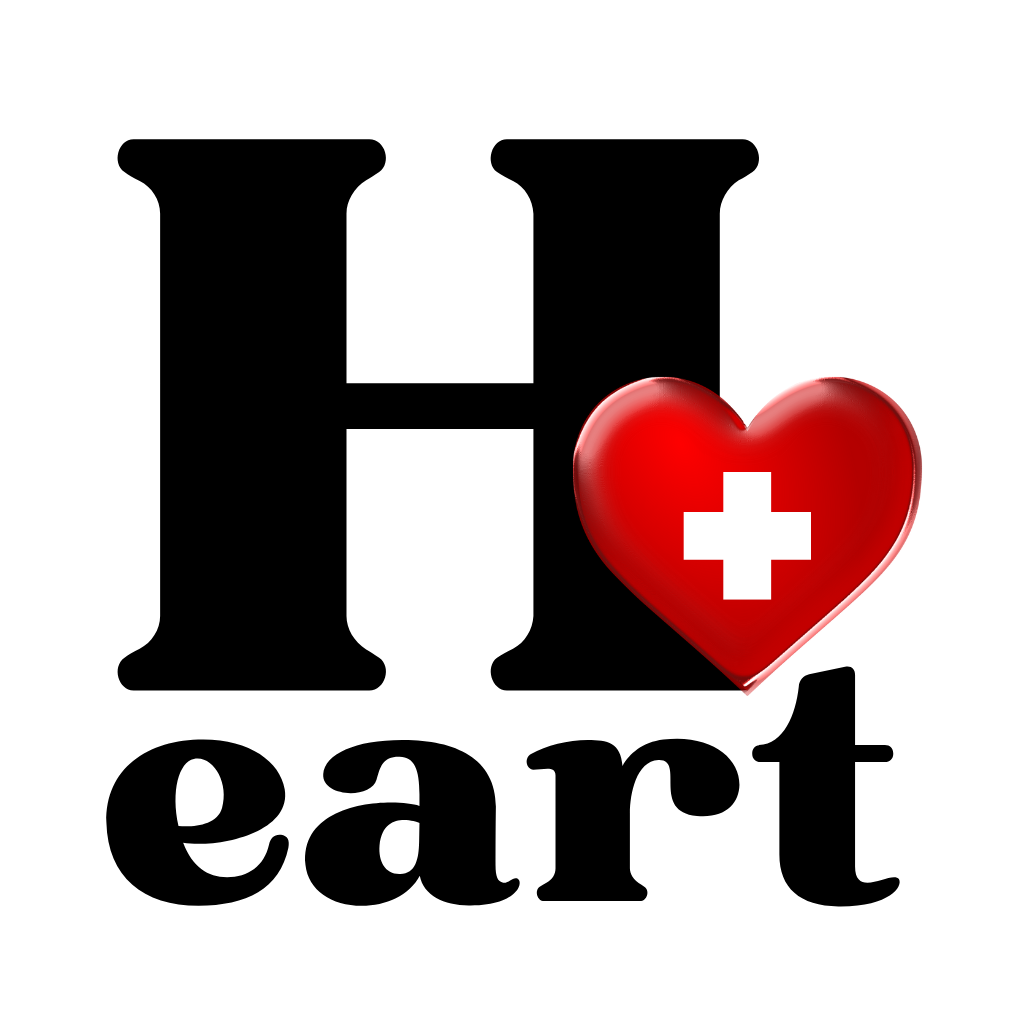
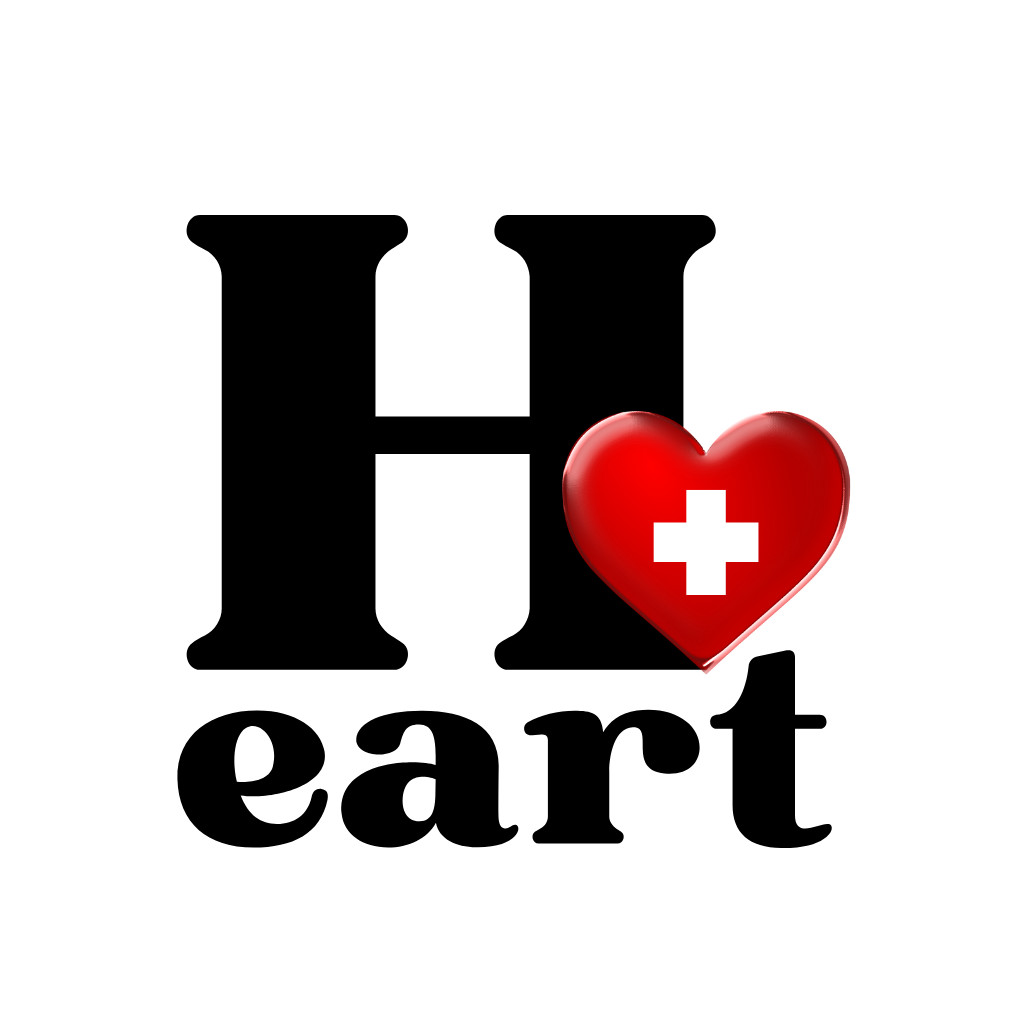
adaptiveIconの変更に伴い、designを全て66%の余裕枠内に設定した NavigationBarを表示させるようにした hospitalDataページのdesign修正

Changed region(s): [[0.0938, 0.125, 0.9062, 0.9062]]

diff --git a/src/app/t-data/index.tsx b/src/app/t-data/index.tsx
@@ -1,27 +1,29 @@
 import { useState } from 'react'
 import { ActivityIndicator, StyleSheet, Text, TouchableOpacity } from 'react-native'
 import { RewardedAd, RewardedAdEventType, TestIds } from 'react-native-google-mobile-ads'
-import * as Device from 'expo-device'
-import BackgroundTemplate from '@/src/components/template/BackgroundTemplete'
 import { router } from 'expo-router'
-import Constants from "expo-constants"
+// import Constants from "expo-constants"
+// import * as Device from 'expo-device'
+import BackgroundTemplate from '@/src/components/template/BackgroundTemplete'
 
 export default function AdMobForData() {
   const [loading, setLoading] = useState(false)
   const [loaded, setLoaded] = useState(false)
   const [rewarded, setRewarded] = useState<RewardedAd | null>(null)
 
-  const androidAdmobRewarded = Constants.expoConfig?.extra?.ANDROID_UNIT_ID
-  const iosAdmobRewarded = Constants.expoConfig?.extra?.IOS_UNIT_ID
-  const productionID = Device.osName === 'Android' ? androidAdmobRewarded : iosAdmobRewarded
-  const adUnitId = __DEV__ ? TestIds.REWARDED : productionID
+  // 開発中は使えない
+  // const androidAdmobRewarded = Constants.expoConfig?.extra?.ANDROID_UNIT_ID
+  // const iosAdmobRewarded = Constants.expoConfig?.extra?.IOS_UNIT_ID
+  // const productionID = Device.osName === 'Android' ? androidAdmobRewarded : iosAdmobRewarded
+  // const adUnitId = __DEV__ ? TestIds.REWARDED : productionID
+  const adUnitId = TestIds.REWARDED
 
   function loadFun () {
     setLoading(true)
 
     // インスタンス作成
     const newRewarded = RewardedAd.createForAdRequest(adUnitId
-      // //開発中は使えない
+      // // 開発中は使えない
       // , {
       // keywords: ['fashion', 'clothing', 'gaming', 'education', 'fitness', 'food', 'market', 'medication'],
       // requestNonPersonalizedAdsOnly: true
@@ -58,6 +60,13 @@ export default function AdMobForData() {
 
   return (
     <BackgroundTemplate>
+
+      <Text style={styles.headerTitle}>数字で見る病院データ</Text>
+
+      <Text style={styles.dialog}>
+        HeartHospitalでは病院指標を基に独自フィルタリングし、令和3～5年度の各病院の手術情報を見やすく表やグラフにしました。病院指標とは、病院の診療実績や医療の質、安全性、効率性を測るためのデータを集計・分析し、客観的に評価するための基準や指標のことで、各病院が毎年公開されますので誰でも閲覧可能です。簡単に説明すると、「各病院でどんな手術を何件やっているか」がわかります。広告視聴後にご覧ください。
+      </Text>
+
       <TouchableOpacity 
         disabled = {loading}
         onPress={() => {
@@ -65,23 +74,33 @@ export default function AdMobForData() {
           if(loaded) rewarded?.show()
         }}
       >
-        <Text style={styles.button}>
+        <Text style={[styles.button, {backgroundColor: loaded ? 'orange' : 'green'}]}>
           {loading?
             <ActivityIndicator size={"small"} color={'white'}/>
-            : loaded? '広告視聴して病院データを閲覧する': '広告を読み込む'}
+            : loaded? 
+              '広告視聴して病院データを閲覧する'
+              : '広告を読み込む'}
         </Text>
       </TouchableOpacity>
-
-      <Text style={styles.subText}>
-        ※ ここでいう病院データとは、各病院が毎年公開する病院指標（手術をした患者人数等）から必要なデータのみを抽出し、独自フィルタリングしたデータを見やすくグラフ化したものです。
-      </Text>
 
     </BackgroundTemplate>
   )
 }
 const styles = StyleSheet.create({
+  headerTitle: {
+    marginTop: 36,
+    marginHorizontal: 'auto',
+    fontSize: 24
+  },
+  dialog: {
+    margin: 32,
+    borderWidth: 1,
+    borderColor: 'gray',
+    borderRadius: 16,
+    padding: 16,
+    color: 'gray'
+  },
   button: {
-    backgroundColor: 'orange',
     color: 'white',
     paddingTop: 16,
     paddingBottom: 12,
@@ -89,12 +108,8 @@ const styles = StyleSheet.create({
     borderRadius: 8,
     fontSize: 16,
     width: 300,
-    textAlign: 'center'
-  },
-  subText: {
-    color: '#666666',
-    padding: 16,
-    marginHorizontal: 16
+    textAlign: 'center',
+    marginBottom: 36
   }
 })
 

diff --git a/app.config.js b/app.config.js
@@ -3,16 +3,16 @@ export default{
     name: "hearthospital-mobile",
     slug: "hearthospital-mobile",
     scheme: "jp.hearthospital",
-    version: "1.0.0",
+    version: "1.0.1",
     orientation: "portrait",
     icon: "./assets/icon(1024x1024).png",
-    userInterfaceStyle: "light",
-    newArchEnabled: true,
     splash: {
       "image": "./assets/splash-icon(414x896).png",
       "resizeMode": "contain",
       "backgroundColor": "#ffffff"
     },
+    userInterfaceStyle: "light",
+    newArchEnabled: true,
     ios: {
       bundleIdentifier: "jp.hearthospital",
       buildNumber: "1.0.0",
@@ -27,8 +27,8 @@ export default{
       versionCode: 1,
       permissions: [],
       adaptiveIcon: {
-        foregroundImage: "./assets/adaptive-icon(108x108).png",
-        backgroundColor: "#ffffff"
+        foregroundImage: "./assets/adaptive(432x432).png",
+        backgroundColor: "#FFFFFF"
       },
       config: {
         googleMaps: {

diff --git a/src/app/_layout.tsx b/src/app/_layout.tsx
@@ -1,7 +1,5 @@
-import { useEffect } from "react"
 import { Stack } from 'expo-router'
 import { StatusBar } from 'react-native'
-import * as NavigationBar from "expo-navigation-bar"
 
 import { TabProvider } from '../context/tabContext'
 import { AuthProvider } from "../context/loginContext"
@@ -9,11 +7,6 @@ import { MessageProvider } from "../context/messageContext"
 import { MenuProvider } from "../context/menuContext"
 
 export default function Layout() {
-
-  useEffect(() => {
-    NavigationBar.setVisibilityAsync("hidden")
-    NavigationBar.setBehaviorAsync("overlay-swipe")
-  }, [])
 
   return (
     <TabProvider>

diff --git a/src/components/template/BackgroundTemplete.tsx b/src/components/template/BackgroundTemplete.tsx
@@ -10,7 +10,6 @@ import { MenuContext } from '@/src/context/menuContext'
 
 const BackgroundTemplate = ({ children }: { children: React.ReactNode }) => {
   const { menuVisible, toggleMenu } = useContext(MenuContext)
-  // function toggleMenu () {setMenuVisible(!menuVisible)}
 
   return (
     <GestureHandlerRootView>
